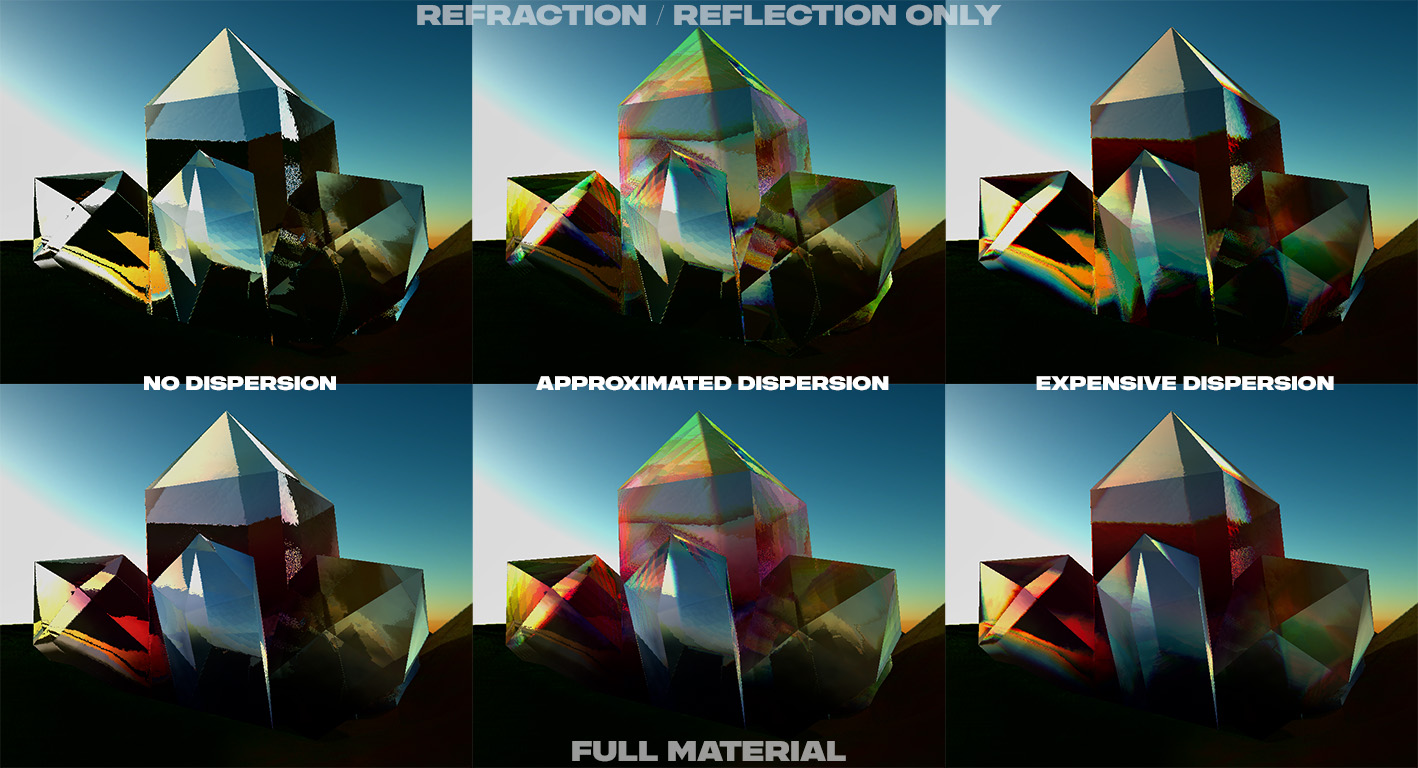
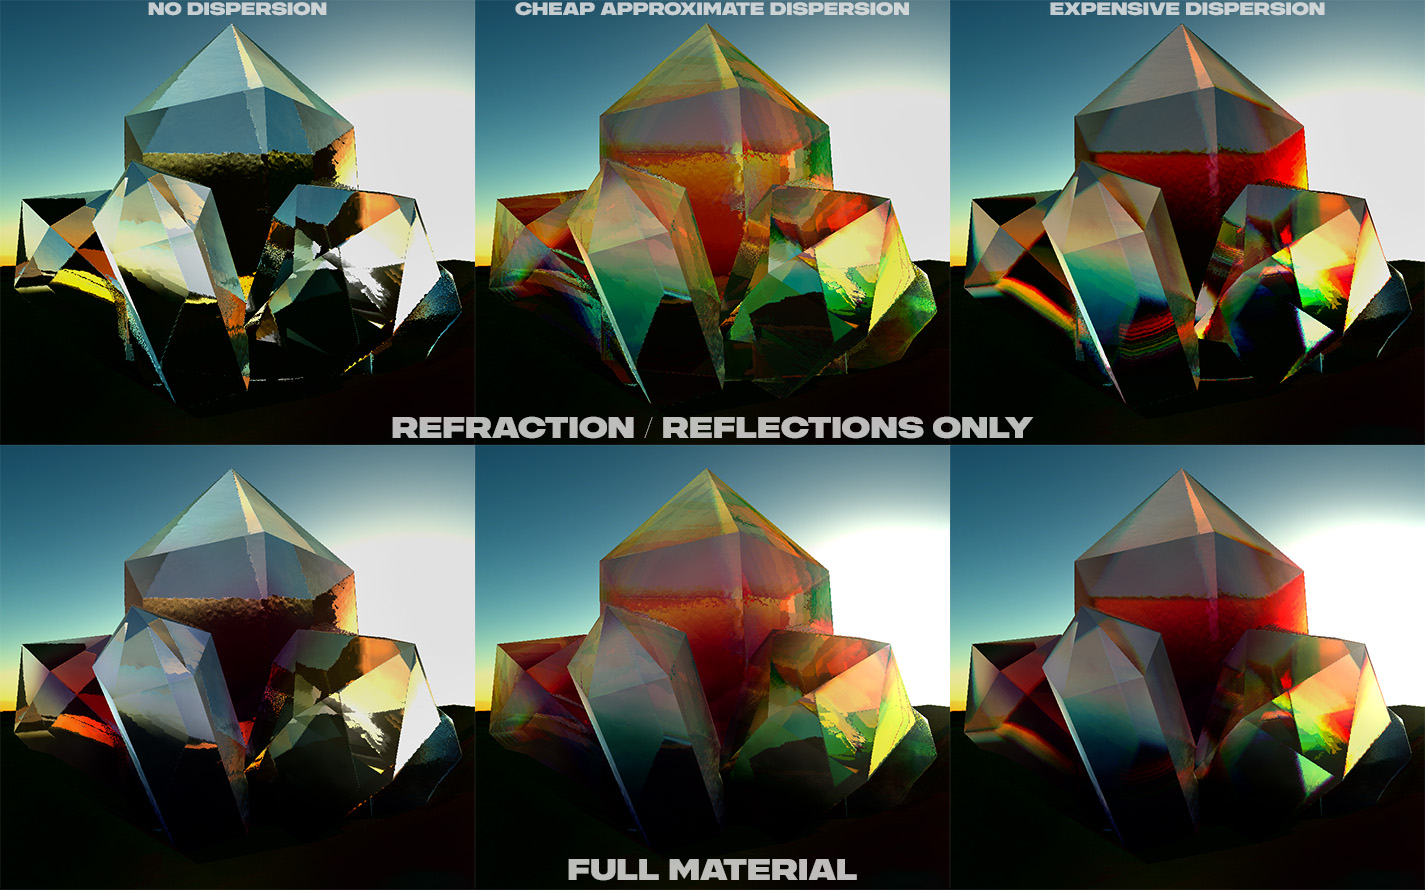
Updating refract image, minor additions

diff --git a/index.html b/index.html
@@ -69,7 +69,7 @@
     <p>The far more inaccurate, but significantly cheaper version is to extrapolate some of the values along the way: So, after we've found <sym>B</sym>, we take <sym>R'</sym> and calculate how far the direction of our boundary IOR values would shift the position of the corresponding points <sym>B</sym> for <i>this</i> IOR (assuming the same distance traveled through the transparent medium) on screen. This is obviously quite far from the <i>real</i> scenario, but it's at least a close guess.</p>
     <p>Now, our goal is to eventually sum up all the blended refractions & inner reflections and tint them in the color that corresponds to the deviated IOR value. Let's first focus on the inner reflections: If we assume that the on-screen span of the IOR-range will be linear, then we can simply read from (N-1)/2 positions between the center and each boundary, calculate the normal there (just like we did for the non-dispersed version, by simply checking the neighboring depth values and resurrecting an approximated normal that way), calculate the reflected direction with this normal and the direction resulting from initial refraction using the corresponding IOR.</p>
     <p>This leaves us with the refracted part: Unfortunately tracing from the much more accurate dispersed position <sym>B</sym> on the backface-depth would require expensive re-tracing, but we'd much rather just do something that's akin to our first-refraction. So, to mirror that, by refracting the dispersed <sym>R'</sym> again with the IOR corresponding to the current sample with the previously calculated normal at the dispersed position <sym>B</sym> to get a dispersed <sym>R''</sym>, but placed at the non-dispersed point <sym>B</sym> and extend it to the same length that the non-dispersed <sym>R''</sym> had, leaving us with an approximated dispersed <sym>S</sym>. If we translate that position to screen coordinates and read from either the shaded scene or the environment map (depending on if the depth there is at the far-plane) - again choosing the mip-level that corresponds to the surface roughness at <sym>F</sym> -, we now have a rough guess of what our dispersed color at <sym>S</sym> should be.</p>
-    <p>To finalize the look, we blend between the assumed dispersed inner-reflection <sym>R'*</sym> and the assumed dispersed refraction <sym>R''</sym> via Schlick's approximation for the Fresnel reflectance and tint the result with the (partially desaturated) wavelength equivalent color from our lookup-table. Et voilà: Certainly not perfect, but it has the visual appearance of a transparent material with proper dispersion.</p>
+    <p>To finalize the look, we blend between the assumed dispersed inner-reflection <sym>R'*</sym> and the assumed dispersed refraction <sym>R''</sym> via Schlick's approximation for the Fresnel reflectance and tint the result with the (partially desaturated) wavelength equivalent color from our lookup-table. Et voilà: Certainly not perfect, but it has the visual appearance of a transparent material with proper dispersion. Interstingly, one of the more important visual aspect of dispersion appears to be the slight blurring of the background, which provides clear visual feedback about whether we're seeing the front or the inside of the transparent object.</p>
     <img src="assets/img/ssrefract2.jpg"/>
   </entry>
   
